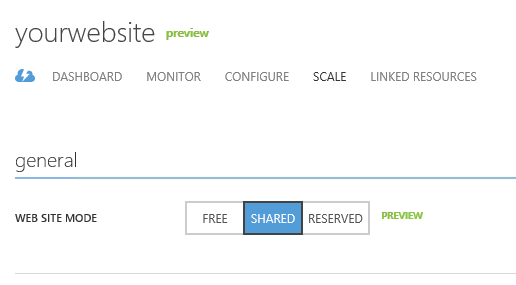
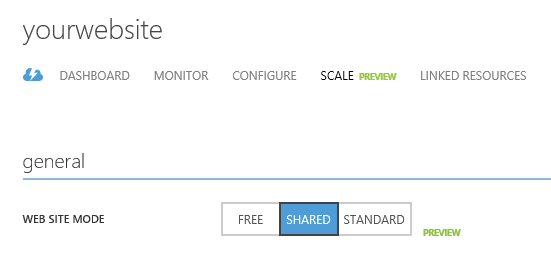
[HOL-ASPNETAzureWebSites] Updated Overview, prerequisites, and added new Exercise 1 - Creating a Windows Azure Web Site with Visual Studio

diff --git a/HOLs/HOL-ASPNETAzureWebSites/HOL.md b/HOLs/HOL-ASPNETAzureWebSites/HOL.md
@@ -7,39 +7,37 @@
 
 Web site publication and deployment has never been easier in Windows Azure. Using familiar tools such as Web Deploy or Git, and virtually no changes to the development workflow, Windows Azure Web Sites is the next step in the Microsoft Azure platform for web developers. 
 
-In this hands-on lab, you will explore the basic elements of the **Windows Azure Web Sites** service by creating a simple [ASP.NET MVC 4](http://www.asp.net/mvc/mvc4) application, which uses scaffolding to automatically generate the baseline of your application's CRUD (Create, Read, Update and Delete). Then, you will deploy it using Web Deploy from Microsoft Visual Studio and finally, you will enable source control and use Git to publish directly from your local computer.
+In this hands-on lab, you will explore the basic elements of the **Windows Azure Web Sites** service by creating a simple **ASP.NET MVC 5** application, which uses scaffolding to automatically generate the baseline of your application's CRUD (Create, Read, Update and Delete). Then, you will deploy it using Web Deploy from Microsoft Visual Studio and finally, you will enable source control and use Git to publish directly from your local computer.
 
-Starting from a simple model class and without writing a single line of code, you will create a controller that will contain all the CRUD operations, as well as all the necessary views. After publishing and running the solution, you will have the application database generated in your SQL Database server, together with the MVC logic and views for data manipulation.
+Starting from a simple model class and without writing a single line of code, you will create a controller that will contain all the CRUD operations, as well as all the necessary views. After publishing and running the solution, you will have the model generated in your SQL Database, together with the MVC logic and views for data manipulation.
 
 <a name="Objectives"></a>
 ### Objectives ###
 
 In this hands-on lab, you will learn how to:
 
-- Create a Web Site from the Windows Azure Management Portal
-- Use Microsoft Visual Studio 2012 to build a new ASP.NET MVC 4 application
-- Deploy the application using Web Deploy from Visual Studio
-- Create a new Web Site with Git Repository enabled to publish the ASP.NET MVC 4 application using Git
+- Create a Windows Azure Web Site with Microsoft Visual Studio 2013
+- Use Microsoft Visual Studio 2013 to build a new ASP.NET MVC 5 application
+- Deploy an ASP.NET application to Windows Azure Web Sites using Web Deploy from Visual Studio
+- Configure a Windows Azure Web Site with Git Repository enabled to publish an ASP.NET MVC 5 application using Git
 
 <a name="Prerequisites"></a>
 ### Prerequisites ###
 
 The following is required to complete this hands-on lab:
 
-- [Microsoft Visual Studio 2012](http://msdn.microsoft.com/vstudio/products/)
-- [GIT Version Control System](http://git-scm.com/download)
-- A Windows Azure subscription - [sign up for a free trial](http://aka.ms/WATK-FreeTrial)
+- [Visual Studio Express 2013 for Web][1] or greater
 
-<a name="Setup"></a>
-### Setup ###
+- [Windows Azure Tools for Microsoft Visual Studio 2.2 (or later)][2]
 
-In order to execute the exercises in this hands-on lab you need to set up your environment.
+- A Windows Azure subscription
+	- Sign up for a [Free Trial](http://aka.ms/watk-freetrial)
+	- If you are a Visual Studio Professional, Test Professional, Premium or Ultimate with MSDN or MSDN Platforms subscriber, activate your [MSDN benefit](http://aka.ms/watk-msdn) now to start development and test on Windows Azure.
+	- [BizSpark](http://aka.ms/watk-bizspark) members automatically receive the Windows Azure benefit through their Visual Studio Ultimate with MSDN subscriptions.
+	- Members of the [Microsoft Partner Network](http://aka.ms/watk-mpn) Cloud Essentials program receive monthly credits of Windows Azure at no charge.
 
-1. Open a Windows Explorer window and browse to the lab's **Source** folder. 
-
-1. Right-click the **Setup.cmd** file and click **Run as administrator**. This will launch the setup process that will configure your environment and check the dependencies.
-
->**Note:** Make sure you have checked all the dependencies for this lab before running the setup. 
+[1]: http://www.microsoft.com/visualstudio/
+[2]: http://www.microsoft.com/windowsazure/sdk/
 
 ---
 <a name="Exercises"></a>
@@ -47,14 +45,74 @@ In order to execute the exercises in this hands-on lab you need to set up your e
 
 This hands-on lab includes the following exercises:
 
-- [Getting Started: Creating an MVC 4 Application using Entity Framework Code First](#GettingStarted)
-- [Exercise 1: Publishing an MVC 4 Application using Web Deploy](#Exercise1)
-- [Exercise 2: Publishing an MVC 4 Application using Git](#Exercise2)
+- [Exercise 1: Creating a Windows Azure Web Site with Visual Studio](#Exercise1)
+- [Exercise 2: Creating an MVC 5 Application using Entity Framework Code First](#Exercise2)
+- [Exercise 3 Publishing an MVC 5 Application using Web Deploy](#Exercise3)
+- [Exercise 4: Publishing an MVC 5 Application using Git](#Exercise4)
 
-<a name="GettingStarted"></a>
-### Getting Started: Creating an MVC 4 Application using Entity Framework Code First ###
+<a name="Exercise1"></a>
+### Exercise 1: Creating a Windows Azure Web Site with Visual Studio ###
 
-In this section, you will create a simple ASP.NET MVC 4 web application, using MVC 4 scaffolding with Entity Framework code first to create the CRUD methods.
+In this exercise, you will take advantage of the Windows Azure tools for Visual Studio to create a Windows Azure web site. Through **Server Explorer**, you will connect to Windows Azure by signing in with your Microsoft Account, and then create a Windows Azure web site and its associated SQL database.
+
+#### Task 1 – Adding a New Windows Azure Web Site from Server Explorer ####
+
+1. Open **Microsoft Visual Studio 2013** and then open **Server Explorer** by selecting **View | Server Explorer**.
+
+1. In **Server Explorer**, right-click the **Windows Azure** node and select **Connect to Windows Azure...**. Sign in using the Microsoft account associated with your Windows Azure account.
+
+	![Connect to Windows Azure](Images/connect-to-windows-azure.png?raw=true)
+
+	_Connect to Windows Azure_
+
+1. After sign in, the **Windows Azure** node is populated with the resources in your Windows Azure subscription.
+
+1. Expand the **Windows Azure** node, right-click the **Web Sites** node and select **Add New Site**.
+
+	![Add new site](Images/add-new-website.png?raw=true)
+
+	_Add new site_
+
+1. In the **Create site in Windows Azure** dialog box, provide the following information:
+	- In the **Site name** box, enter an available name for the web site.
+	- In the **Location** drop-down list, select the region for the web site. This setting specifies which data center your web site will run in.
+	- In the **Database server** drop-down list, select **Create new server**. Alternatively, you can select an existing SQL Server.
+	- In the **Database username** and **Database password** boxes, enter the administrator username and password for the SQL Server. If you selected a SQL Server you have created previously, you will be prompted for the password of the previous SQL Server account you created.
+
+1. Click **Create** to create the web site.
+
+	![Create site on Windows Azure](Images/create-site-on-windows-azure.png?raw=true)
+
+	_Create site on Windows Azure_
+
+1. Wait for the new web site to be created.
+
+	> **Note:** By default, Windows Azure provides domains at _azurewebsites.net_, but also gives you the possibility to set custom domains using the Windows Azure Management Portal (right-click your web site from Server Explorer and select **Open Management Portal**). However, you can only manage custom domains if you are using certain Web Site modes.
+	
+	> Windows Azure offers 3 modes for users to run their web sites - Free, Shared, and Standard. In Free and Shared mode, all web sites run in a multi-tenant environment and have quotas for CPU, Memory, and Network usage. You can mix and match which sites are Free (strict quotas) vs. Shared (more relaxed quotas). The maximum number of free sites may vary with your plan. In Standard mode, you choose which sites run on dedicated virtual machines that correspond to the standard Azure compute resources. You can find the Web Sites Mode configuration in the **Scale** menu of your Web Site.
+
+	> ![Web Site Modes](Images/web-site-modes.png?raw=true "Web Site Modes")
+
+	> If you are using **Shared** or **Standard** mode, you will be able to manage custom domains for your Web Site. To do so, go to the **Configure** menu of your Web Site and under _domain names_ click **Manage Domains**.
+
+	> ![Manage Domains](Images/manage-domains.png?raw=true "Manage Domains")
+
+	> ![Manage Custom Domains](Images/manage-custom-domains.png?raw=true "Manage Custom Domains")
+
+1. Once the web site is created, it will be displayed in Server Explorer under the **Web Sites** node. Right-click the new web site and select **Open in Browser** to check that the web site is running.
+
+	![Browsing to the new web site](Images/browsing-to-the-new-web-site.png?raw=true)
+
+	_Browsing to the new web site_
+
+	![Web site running](Images/website-working.png?raw=true "Web site running")
+
+	_Web site running_
+
+<a name="Exercise2"></a>
+### Exercise 2: Creating an MVC 5 Application using Entity Framework Code First ###
+
+In this exercise, you will create a simple ASP.NET MVC 5 web application, using MVC 4 scaffolding with Entity Framework code first to create the CRUD methods.
 
 <a name="GettingStartedTask1"></a>
 #### Task 1 – Creating an ASP.NET MVC 4 Application in Visual Studio ####
@@ -171,102 +229,13 @@ In this section, you will create a simple ASP.NET MVC 4 web application, using M
 
 ---
 
-<a name="Exercise1"></a>
-### Exercise 1: Publishing an MVC 4 Application using Web Deploy ###
+<a name="Exercise3"></a>
+### Exercise 3: Publishing an MVC 4 Application using Web Deploy ###
 
-In this exercise, you will create a new web site in the Windows Azure Management Portal and publish the application you obtained in the Getting Started section, taking advantage of the Web Deploy publishing feature provided by Windows Azure.
-
-<a name="Ex1Task1"></a>
-#### Task 1 – Creating a New Web Site from the Windows Azure Portal ####
-
-1. Go to the [Windows Azure Management Portal](https://manage.windowsazure.com/) and sign in using the Microsoft credentials associated with your subscription.
-
-	![Log on to Windows Azure portal](Images/login.png?raw=true "Log on to the Windows Azure portal")
-
-	_Log on to the Windows Azure Management Portal_
-
-1. Click **New** on the command bar.
-
-	![Creating a new Web Site](Images/new-website.png?raw=true "Creating a new Web Site")
-
-	_Creating a new Web Site_
-
-1. Click **Compute**, **Web Site** and then **Quick Create**. Provide an available URL for the new web site and click **Create Web Site**.
-
-	> **Note:** A Windows Azure Web Site is the host for a web application running in the cloud that you can control and manage. The Quick Create option allows you to deploy a completed web application to the Windows Azure Web Site from outside the portal. It does not include steps for setting up a database.
-
-	![Creating a new Web Site using Quick Create](Images/quick-create.png?raw=true "Creating a new Web Site using Quick Create")
-
-	_Creating a new Web Site using Quick Create_
-
-1. Wait until the new **Web Site** is created.
-	
-	> **Note:** By default, Windows Azure provides domains at _azurewebsites.net_, but also gives you the possibility to set custom domains using the Windows Azure Management Portal. However, you can only manage custom domains if you are using certain Web Site modes.
-	
-	> Windows Azure offers 3 modes for users to run their web sites - Free, Shared, and Reserved. In Free and Shared mode, all web sites run in a multi-tenant environment and have quotas for CPU, Memory, and Network usage. You can mix and match which sites are Free (strict quotas) vs. Shared (more relaxed quotas). The maximum number of free sites may vary with your plan. The Reserved mode applies to ALL of your sites and makes them run on dedicated virtual machines that correspond to the standard Azure compute resources. You can find the Web Sites Mode configuration in the **Scale** menu of your Web Site.
-
-	> ![Web Site Modes](Images/web-site-modes.png?raw=true "Web Site Modes")
-
-	> If you are using **Shared** or **Reserved** mode, you will be able to manage custom domains for your Web Site. To do so, go to the **Configure** menu of your Web Site and under _domain names_ click **Manage Domains**.
-
-	> ![Manage Domains](Images/manage-domains.png?raw=true "Manage Domains")
-
-	> ![Manage Custom Domains](Images/manage-custom-domains.png?raw=true "Manage Custom Domains")
-
-1. Once the Web Site is created, click the link under the **URL** column. Check that the new Web Site is working.
-
-	![Browsing to the new web site](Images/navigate-website.png?raw=true "Browsing to the new web site")
-
-	_Browsing to the new web site_
-
-	![Web site running](Images/website-working.png?raw=true "Web site running")
-
-	_Web site running_
-
-1. Go back to the portal and click the name of the web site under the **Name** column to display the management pages.
-
-	![Opening the web site management pages](Images/go-to-the-dashboard.png?raw=true "Opening the web site management pages")
-	
-	_Opening the Web Site management pages_
-
-1. In the **Dashboard** page, under the **quick glance** section, click the **Download the publish profile** link.
-
-	> **Note:** The _publish profile_ contains all of the information required to publish a web application to a Windows Azure website for each enabled publication method. The publish profile contains the URLs, user credentials and database strings required to connect to and authenticate against each of the endpoints for which a publication method is enabled. **Microsoft WebMatrix 2**, **Microsoft Visual Web Developer** and **Microsoft Visual Studio 2012** support reading publish profiles to automate configuration of these programs for publishing web applications to Windows Azure websites. 
-
-	![Downloading the web site publish profile](Images/download-publish-profile.png?raw=true "Downloading the web site publish profile")
-	
-	_Downloading the Web Site publish profile_
-
-1. Download the publish profile file to a known location. Further in this exercise you will see how to use this file to publish a web application to a Windows Azure Web Sites from Visual Studio.
-
-	![Saving the publish profile file](Images/save-link.png?raw=true "Saving the publish profile")
-	
-	_Saving the publish profile file_
-
-<a name="Ex1Task2"></a>
-#### Task 2 – Configuring the Database Server ####
-
-1. You will need a SQL Database server for storing the application database. You can view the SQL Database servers from your subscription in the portal at **Sql Databases** | **Servers**. If you do not have a server created, you can create one using the **Add** button at the bottom of the page. Make note of the server **NAME**, **MANAGE URL**, and **ADMINISTRATOR LOGIN**, and obtain the server's password, which is not shown in the portal. You will use this information next.
-Do not create the database yet, as it will be created by Entity Framework when running the application.
-
-	![SQL Database Server Dashboard](Images/sql-database-server-dashboard.png?raw=true "SQL Database Server Dashboard")
-
-	_SQL Database Server Dashboard_
-
-1. In the next task, you will test the database connection from Visual Studio. For that reason, you need to include your local IP address in the server's list of **Allowed IP Addresses**. To do that, click **Configure**, and then click the ![add-client-ip-address-ok-button](Images/add-client-ip-address-ok-button.png?raw=true) button next to the IP address labeled **CURRENT CLIENT IP ADDRESS**.
-
-	![Adding Client IP Address](Images/add-client-ip-address.png?raw=true)
-
-	_Adding Client IP Address_
-
-1. Once the **Client IP Address** is added to the allowed IP addresses list, click **Save** to confirm the changes.
-
-	![Confirm Changes](Images/add-client-ip-address-confirm.png?raw=true)
-
-	_Confirm Changes_
+In this exercise, you will publish the application you obtained in Exercise 2, taking advantage of the Web Deploy publishing feature provided by  Visual Studio.
 
 <a name="Ex1Task3"></a>
-#### Task 3 – Publishing an ASP.NET MVC 4 Application using Web Deploy ####
+#### Task 1 – Publishing an ASP.NET MVC 5 Application using Web Deploy ####
 
 1. Go back to the MVC 4 solution. In the **Solution Explorer**,  right-click the web site project and select **Publish**.
 
@@ -331,7 +300,7 @@ Do not create the database yet, as it will be created by Entity Framework when r
 ---
 
 <a name="Exercise2"></a>
-### Exercise 2: Publishing an MVC 4 Application using Git ###
+### Exercise 4: Publishing an MVC 5 Application using Git ###
 
 In this exercise you will publish again the web application you created in exercise 1, but this time using Git.
 
